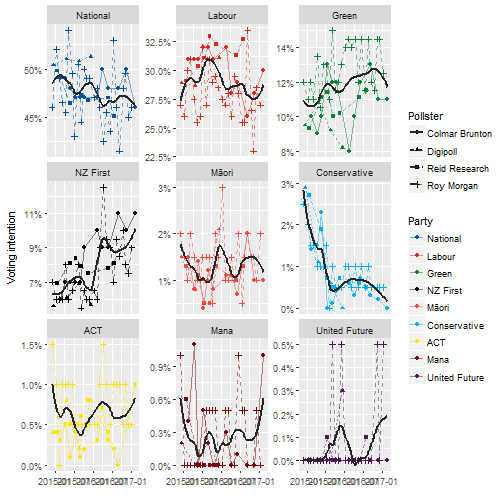
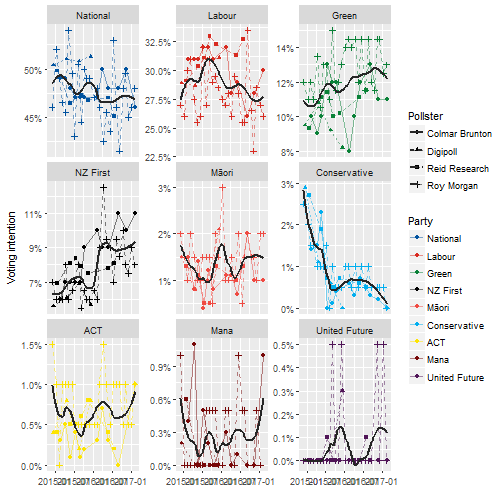
add another 2017 poll, and add ElectionYear column to polls

diff --git a/pkg1/inst/doc/README.html b/pkg1/inst/doc/README.html
@@ -149,8 +149,13 @@ proportions &lt;-<span class="st"> </span>GE2014 %&gt;%
 </div>
 <div id="geographical-location-of-voting-places" class="section level3">
 <h3>Geographical location of voting places</h3>
-<div class="sourceCode"><pre class="sourceCode r"><code class="sourceCode r"><span class="kw">library</span>(ggthemes) <span class="co"># for theme_map()</span>
-GE2014 %&gt;%
+<div class="sourceCode"><pre class="sourceCode r"><code class="sourceCode r"><span class="kw">library</span>(ggthemes) <span class="co"># for theme_map()</span></code></pre></div>
+<pre><code>## 
+## Attaching package: 'ggthemes'</code></pre>
+<pre><code>## The following object is masked _by_ '.GlobalEnv':
+## 
+##     theme_map</code></pre>
+<div class="sourceCode"><pre class="sourceCode r"><code class="sourceCode r">GE2014 %&gt;%
 <span class="st">    </span><span class="kw">filter</span>(VotingType ==<span class="st"> &quot;Party&quot;</span>) %&gt;%
 <span class="st">    </span><span class="kw">group_by</span>(VotingPlace) %&gt;%
 <span class="st">    </span><span class="kw">summarise</span>(<span class="dt">ProportionNational =</span> <span class="kw">sum</span>(Votes[Party ==<span class="st"> &quot;National Party&quot;</span>] /<span class="st"> </span><span class="kw">sum</span>(Votes))) %&gt;%
@@ -257,7 +262,7 @@ polls %&gt;%
 <span class="st">    </span><span class="kw">scale_x_date</span>(<span class="st">&quot;&quot;</span>) +
 <span class="st">    </span><span class="kw">facet_wrap</span>(~Party, <span class="dt">scales =</span> <span class="st">&quot;free_y&quot;</span>) </code></pre></div>
 <pre><code>## `geom_smooth()` using method = 'loess'</code></pre>
[2 lines of base64/hex data omitted]
 <p>Note that it is not appropriate to frequently update the version of <code>nzelect</code> on CRAN, so polling data will generally be out of date. The development version of <code>nzelect</code> from GitHub will be kept more up to date (but no promises exactly how much).</p>
 </div>
 <div id="usage---convenience-functions" class="section level2">
@@ -325,15 +330,15 @@ polls %&gt;%
 <pre><code>## # A tibble: 9 × 5
 ##           Party pundit_perc curia_perc pundit_seats curia_seats
 ##           &lt;chr&gt;       &lt;dbl&gt;      &lt;dbl&gt;        &lt;dbl&gt;       &lt;dbl&gt;
-## 1           ACT         0.8          1            1           1
-## 2  Conservative         0.2          0            0           0
-## 3         Green        11.8         11           14          13
-## 4        Labour        28.8         30           35          36
-## 5          Mana         0.6          1            0           0
-## 6         Maori         1.2          1            1           1
-## 7      National        46.3         46           57          56
-## 8      NZ First        10.1         11           12          13
-## 9 United Future         0.1          0            1           1</code></pre>
+## 1           ACT         0.9        1.0            1           1
+## 2  Conservative         0.1        0.0            0           0
+## 3         Green        12.2       11.7           15          14
+## 4        Labour        27.9       28.6           34          35
+## 5          Mana         0.4        0.6            0           0
+## 6         Maori         1.5        1.4            2           2
+## 7      National        46.8       46.7           57          56
+## 8      NZ First         9.4        9.9           11          12
+## 9 United Future         0.1        0.0            1           1</code></pre>
 </div>
 </div>
 
